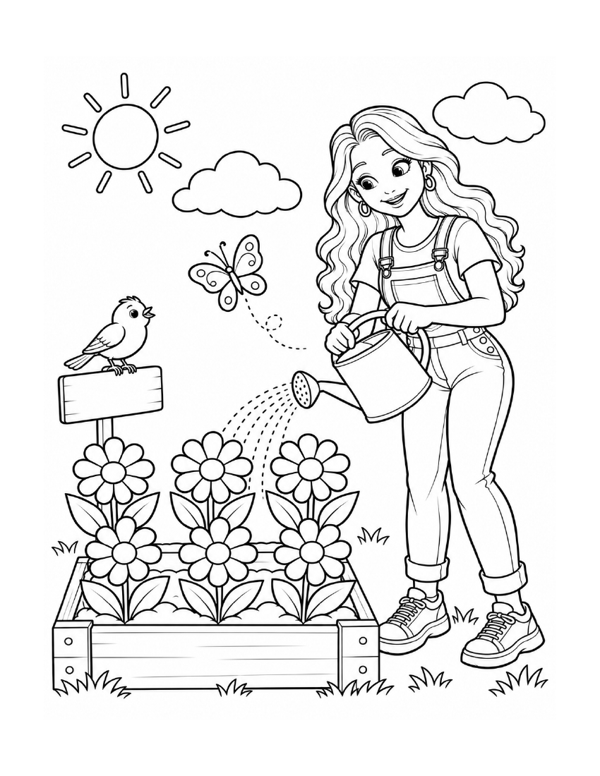
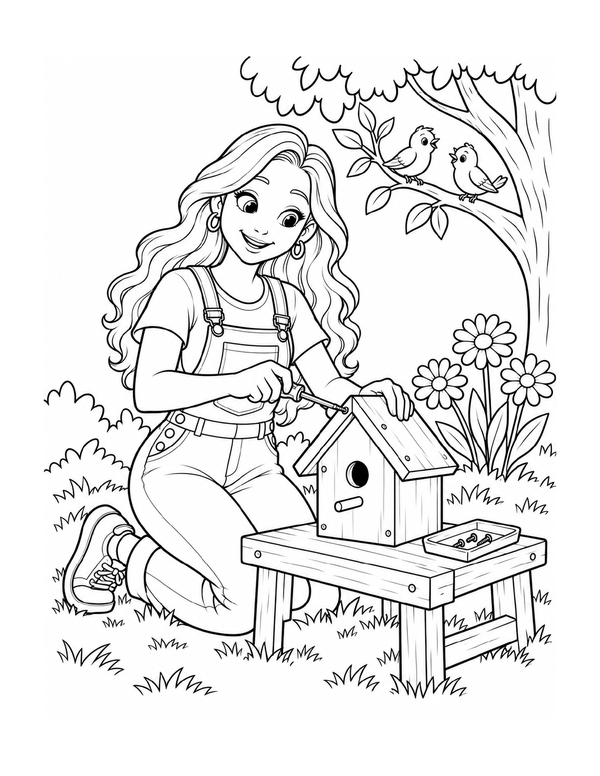
Rename to Little World Supply; fix scene numbering
- Brand text and titles: Little World Studio -> Little World Supply
- /s/1/ is now Scene 1 (birdhouse, book page 3), matching the printed book
- Garden page moved to /s/2/ (Scene 2, book page 5)
- Book page lists both scenes

Claude-Session: https://claude.ai/code/session_01NaPHkL9ae9EgD5GW8wFvcm

diff --git a/s/1/index.html b/s/1/index.html
@@ -3,22 +3,22 @@
 <head>
 <meta charset="utf-8">
 <meta name="viewport" content="width=device-width, initial-scale=1">
-<title>Scene 1 · The Little Garden · Claire Builds a Little World</title>
+<title>Scene 1 · The Birdhouse · Claire Builds a Little World</title>
 <meta name="description" content="A short read-aloud story and at-home challenge for Scene 1 of Claire Builds a Little World.">
 <link rel="stylesheet" href="../../style.css">
 </head>
 <body>
 <header class="top"><div class="wrap">
-  <a class="brand" href="../../">Little World <span>Studio</span></a>
+  <a class="brand" href="../../">Little World <span>Supply</span></a>
   <nav><a href="../../book/#stories">All scenes</a></nav>
 </div></header>
 
 <main class="wrap">
   <section>
     <p class="eyebrow">Scene 1</p>
-    <h2>The Little Garden</h2>
+    <h2>The Birdhouse</h2>
     <div class="scene-art">
-      <img src="../../img/scene1.png" alt="Coloring page: Claire watering a flower bed while a bird and butterfly watch">
+      <img src="../../img/scene1.png" alt="Coloring page: Claire building a wooden birdhouse while two birds watch from a tree">
     </div>
   </section>
 
@@ -30,16 +30,16 @@
   <section>
     <p class="eyebrow">Read together</p>
     <div class="story">
-      <p>Claire built a little garden box out of wood. She filled it with soil and planted three tiny seeds.</p>
-      <p>Every morning, she gave them a drink. Sprinkle, sprinkle, sprinkle!</p>
-      <p>A little bird came to watch. A butterfly floated by. And one sunny day… three flowers popped up to say hello.</p>
-      <p>“Little things grow when you take care of them,” Claire smiled. “And so do we.”</p>
+      <p>Claire found some scrap wood in the garage. “I know who needs a house,” she said.</p>
+      <p>She measured, she sawed, and she turned each little screw. Twist, twist, twist!</p>
+      <p>Up in the tree, two little birds watched and chirped, as if to say, “Is that for us?”</p>
+      <p>When the roof was on, Claire smiled. “Every little friend deserves a cozy place to live.”</p>
     </div>
   </section>
 
   <section>
     <div class="try">
-      <strong>Try it!</strong> What colors will your flowers be? Pick a different color for each one, then give your garden a name.
+      <strong>Try it!</strong> Color the birdhouse your favorite colors, then give the two birds names. What would you build for a little friend?
     </div>
   </section>
 

diff --git a/s/2/index.html b/s/2/index.html
@@ -1,0 +1,53 @@
+<!DOCTYPE html>
+<html lang="en">
+<head>
+<meta charset="utf-8">
+<meta name="viewport" content="width=device-width, initial-scale=1">
+<title>Scene 2 · The Little Garden · Claire Builds a Little World</title>
+<meta name="description" content="A short read-aloud story and at-home challenge for Scene 2 of Claire Builds a Little World.">
+<link rel="stylesheet" href="../../style.css">
+</head>
+<body>
+<header class="top"><div class="wrap">
+  <a class="brand" href="../../">Little World <span>Supply</span></a>
+  <nav><a href="../../book/#stories">All scenes</a></nav>
+</div></header>
+
+<main class="wrap">
+  <section>
+    <p class="eyebrow">Scene 2</p>
+    <h2>The Little Garden</h2>
+    <div class="scene-art">
+      <img src="../../img/scene2.png" alt="Coloring page: Claire watering a flower bed while a bird and butterfly watch">
+    </div>
+  </section>
+
+  <section>
+    <p class="eyebrow">Watch</p>
+    <div class="video">Claire’s video for this scene is coming soon!</div>
+  </section>
+
+  <section>
+    <p class="eyebrow">Read together</p>
+    <div class="story">
+      <p>Claire built a little garden box out of wood. She filled it with soil and planted three tiny seeds.</p>
+      <p>Every morning, she gave them a drink. Sprinkle, sprinkle, sprinkle!</p>
+      <p>A little bird came to watch. A butterfly floated by. And one sunny day… three flowers popped up to say hello.</p>
+      <p>“Little things grow when you take care of them,” Claire smiled. “And so do we.”</p>
+    </div>
+  </section>
+
+  <section>
+    <div class="try">
+      <strong>Try it!</strong> What colors will your flowers be? Pick a different color for each one, then give your garden a name.
+    </div>
+  </section>
+
+  <section class="pager">
+    <a class="btn" href="../../book/">Back to the book</a>
+  </section>
+</main>
+
+<footer><div class="wrap">Claire is a fictional character. Illustrations created with AI assistance.</div></footer>
+</body>
+</html>

diff --git a/book/index.html b/book/index.html
@@ -3,7 +3,7 @@
 <head>
 <meta charset="utf-8">
 <meta name="viewport" content="width=device-width, initial-scale=1">
-<title>Little World Studio · Claire Builds a Little World</title>
+<title>Little World Supply · Claire Builds a Little World</title>
 <meta name="description" content="Home of Claire Builds a Little World, a coloring adventure for ages 4–7, with companion stories and videos.">
 <meta property="og:title" content="Claire Builds a Little World">
 <meta property="og:description" content="A coloring adventure about creativity and building confidence. Ages 4–7.">
@@ -12,7 +12,7 @@
 </head>
 <body>
 <header class="top"><div class="wrap">
-  <a class="brand" href="../">Little World <span>Studio</span></a>
+  <a class="brand" href="../">Little World <span>Supply</span></a>
   <nav><a href="../">Home</a><a href="#stories">Stories</a></nav>
 </div></header>
 
@@ -37,7 +37,11 @@
     <p>Each scene has a QR code that opens a short story and a little challenge to try at home.</p>
     <div class="cards">
       <a class="card" href="../s/1/">
-        <h3>Scene 1 · The Little Garden</h3>
+        <h3>Scene 1 · The Birdhouse</h3>
+        <p>Claire builds a cozy home for two little birds.</p>
+      </a>
+      <a class="card" href="../s/2/">
+        <h3>Scene 2 · The Little Garden</h3>
         <p>Claire waters her first flower bed.</p>
       </a>
       <div class="card">
@@ -66,7 +70,7 @@
 </main>
 
 <footer><div class="wrap">
-  © 2026 Little World Studio · Claire is a fictional character. Illustrations created with AI assistance.
+  © 2026 Little World Supply · Claire is a fictional character. Illustrations created with AI assistance.
 </div></footer>
 </body>
 </html>

diff --git a/index.html b/index.html
@@ -3,13 +3,13 @@
 <head>
 <meta charset="utf-8">
 <meta name="viewport" content="width=device-width, initial-scale=1">
-<title>Little World Studio · Make, build, and play</title>
-<meta name="description" content="Little World Studio: our own designs, favorite maker finds, and Claire Builds a Little World.">
+<title>Little World Supply · Make, build, and play</title>
+<meta name="description" content="Little World Supply: our own designs, favorite maker finds, and Claire Builds a Little World.">
 <link rel="stylesheet" href="style.css">
 </head>
 <body>
 <header class="top"><div class="wrap">
-  <a class="brand" href="./">Little World <span>Studio</span></a>
+  <a class="brand" href="./">Little World <span>Supply</span></a>
   <nav><a href="#shop">Shop</a><a href="#picks">Picks</a><a href="book/">Book</a></nav>
 </div></header>
 
@@ -67,7 +67,7 @@
 </main>
 
 <footer><div class="wrap">
-  © 2026 Little World Studio<br>
+  © 2026 Little World Supply<br>
   Some links on this site are affiliate links. We may earn a small commission at no extra cost to you.
 </div></footer>
 </body>
